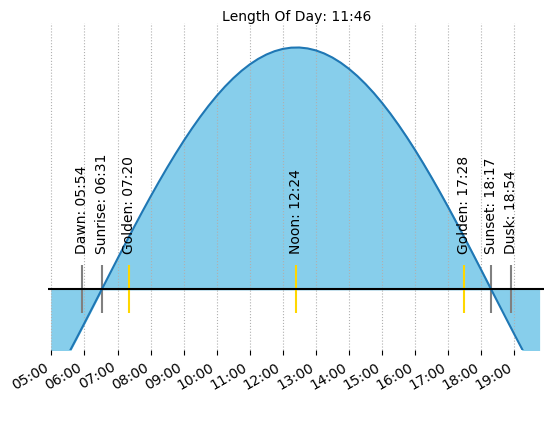
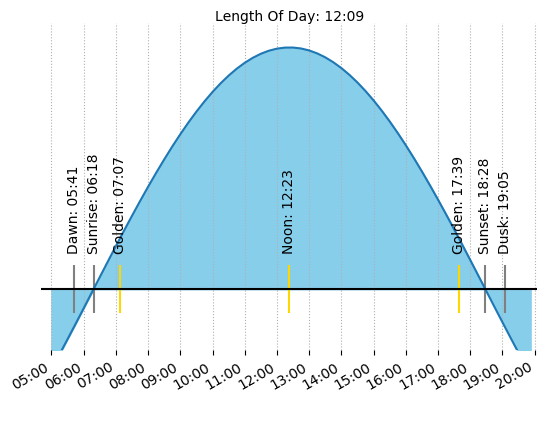
Adjust Sun graphs to take account of DST

diff --git a/app/YearGraph.py b/app/YearGraph.py
@@ -8,6 +8,7 @@ import configparser # for reading ini files
 # use the custom Sunrise module - path may change as things progress
 from modules.Sun.Sun import Sun
 from modules.Utilities.LeapYear import LeapYear
+from modules.Utilities.DaylightSavingTime import DaylightSavingTime
 matplotlib.use('Agg')
 
 CWD = os.getcwd()
@@ -42,6 +43,7 @@ while var > 0:
 
 	#get current date and time as a reference point
 	Now = dt.datetime.now()
+	
 
 	#get seasons
 	
@@ -60,6 +62,7 @@ while var > 0:
 	for i in range(0,365+LeapYear(Now)):
 		# print(i)
 		x.append(dt.datetime(Now.year,1,1,0,0,0)+dt.timedelta(days=i))
+
 		#print(x[i])
 
 
@@ -67,12 +70,15 @@ while var > 0:
 
 	Midnight = dt.datetime(Now.year,1,1,0,0,0)
 
+	DST = [DaylightSavingTime(x[i]) for i in range(0,365 + LeapYear(Now))]
+	#print(DST)
+
 	# get rise and set for civil twilight and official sun rise/set
-	y_RiseOfficial = [ Midnight + Sun(x[i],location,0).Rise()['Official'] for i in range(0,365 + LeapYear(Now)) ]
-	y_SetOfficial = [ Midnight + Sun(x[i],location,0).Set()['Official'] for i in range(0,365 + LeapYear(Now)) ]
-	y_RiseCivil = [ Midnight + Sun(x[i],location,0).Rise()['Civil'] for i in range(0,365 + LeapYear(Now)) ]
-	y_SetCivil = [ Midnight + Sun(x[i],location,0).Set()['Civil'] for i in range(0,365 + LeapYear(Now)) ]
-	y_Midday = [ Midnight + Sun(x[i],location,0).Transit() for i in range(0,365 + LeapYear(Now)) ]
+	y_RiseOfficial = [ Midnight + Sun(x[i],location,DST[i]).Rise()['Official'] for i in range(0,365 + LeapYear(Now)) ]
+	y_SetOfficial = [ Midnight + Sun(x[i],location,DST[i]).Set()['Official'] for i in range(0,365 + LeapYear(Now)) ]
+	y_RiseCivil = [ Midnight + Sun(x[i],location,DST[i]).Rise()['Civil'] for i in range(0,365 + LeapYear(Now)) ]
+	y_SetCivil = [ Midnight + Sun(x[i],location,DST[i]).Set()['Civil'] for i in range(0,365 + LeapYear(Now)) ]
+	y_Midday = [ Midnight + Sun(x[i],location,DST[i]).Transit() for i in range(0,365 + LeapYear(Now)) ]
 	#print(x[1])
 
 	#print(y_rise)

diff --git a/app/DayGraph.py b/app/DayGraph.py
@@ -12,6 +12,7 @@ import configparser # for reading ini files
 from modules.Sun.Sun import Sun
 from modules.Sun.SunCurve import SunCurve
 from modules.Utilities.DecimalTime import DecimalTime
+from modules.Utilities.DaylightSavingTime import DaylightSavingTime
 matplotlib.use('Agg')
 #print(time.time()-t0)
 
@@ -50,10 +51,12 @@ while var > 0:
 	# Make "now" static for each run to avoid the problem of an inconsistant date if it clicks over at midnight, and to minimise calls
 
 	now = dt.datetime.today() #- dt.timedelta(hours=6)
+	DST = DaylightSavingTime(now)
+	#print(DST)
 	#print(now)
 
 	# initiate the Sun module
-	s = Sun(now,location,0)
+	s = Sun(now,location,DST)
 
 	#print(s.Rise()['Official'])
 

diff --git a/README.md b/README.md
@@ -60,8 +60,5 @@ install supervisor
 install config files into supervisor config directory
 sudo supervisorctrl reread
 sudo supervisorctrl update
-
-TODO 
-resolve path issues with my username and pi's username hardcoded into config files 
-fix issue with station vs Station when cloned from github
-safeconfigparser is to be depricated
+create user station without sudo privileges and a different password to pi. Add to groups spi, i2c, input, gpio
+Add zram (may need to change all the graphing codes to one module that fires off each module after the last completes if RAM is still an issue)
